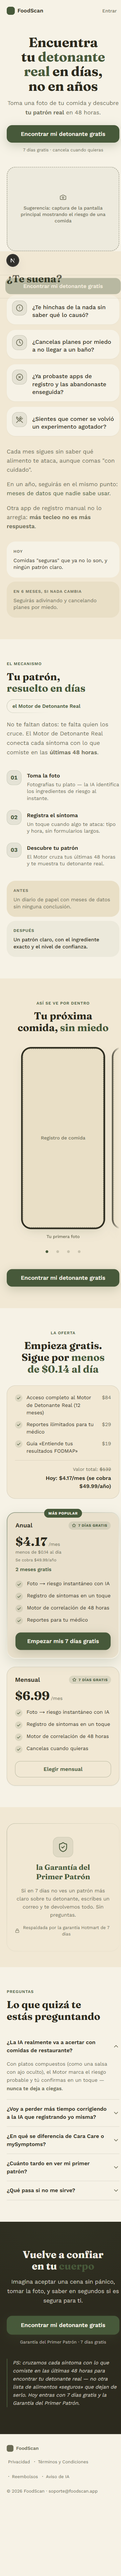
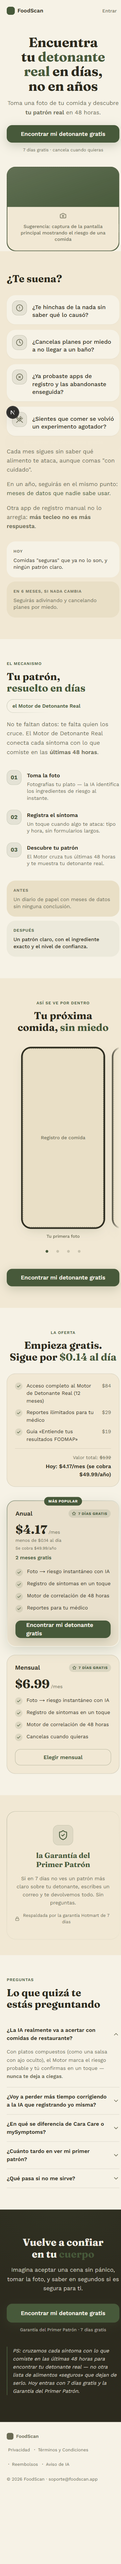
Crear FICHA-MERCADO.md y corregir defectos accionables del revisor
Fija prueba/garantia (7/15 dias) verificados contra la politica real de Hotmart,
resolviendo el gate de garantia. Unifica el verbo del CTA en la Oferta y agrega el
dispositivo ownable "mordisco" al placeholder del Hero para diferenciar la paleta.
Documenta en ESTADO.md los 2 defectos que dependen de la app real (Sesion 5) como
pendiente aceptado.

diff --git a/components/landing/Hero.tsx b/components/landing/Hero.tsx
@@ -113,12 +113,27 @@ export function Hero({
               </div>
             ) : (
               /* Placeholder HONESTO (55 §1.3): dashed + ratio fijo (CLS 0) + sugerencia.
+                 Lleva el dispositivo ownable de FICHA-ARTE.md (la curva "mordisco") para
+                 que la identidad no dependa solo de la paleta papel+tinta verde.
                  Queda anotado como pendiente en ESTADO.md hasta montar el visual real. */
-              <div className="flex aspect-[4/3] w-full flex-col items-center justify-center gap-3 rounded-[var(--radius-card)] border-2 border-dashed border-[color-mix(in_oklab,var(--text-tertiary)_45%,transparent)] bg-[color-mix(in_oklab,var(--accent)_5%,transparent)] px-8">
-                <Camera size={20} color="var(--text-secondary)" aria-hidden="true" />
-                <p className="max-w-[36ch] text-center text-[14px] font-medium leading-snug text-[var(--text-secondary)]">
-                  Sugerencia: {visualPlaceholderSugerencia}
-                </p>
+              <div className="relative flex aspect-[4/3] w-full flex-col items-center justify-end overflow-hidden rounded-[var(--radius-card)] border-2 border-dashed border-[color-mix(in_oklab,var(--text-tertiary)_45%,transparent)] bg-[linear-gradient(160deg,color-mix(in_oklab,var(--accent)_85%,transparent),var(--accent)_70%)]">
+                <svg
+                  aria-hidden="true"
+                  viewBox="0 0 400 34"
+                  preserveAspectRatio="none"
+                  className="absolute inset-x-0 bottom-[22%] h-[24px] w-full"
+                >
+                  <path
+                    d="M0,0 L150,0 C172,0 178,34 200,34 C222,34 228,0 250,0 L400,0 L400,34 L0,34 Z"
+                    fill="var(--surface)"
+                  />
+                </svg>
+                <div className="relative z-10 flex w-full flex-col items-center gap-3 bg-[var(--surface)] px-8 pb-6 pt-4 [border-radius:0_0_var(--radius-card)_var(--radius-card)]">
+                  <Camera size={20} color="var(--text-secondary)" aria-hidden="true" />
+                  <p className="max-w-[36ch] text-center text-[14px] font-medium leading-snug text-[var(--text-secondary)]">
+                    Sugerencia: {visualPlaceholderSugerencia}
+                  </p>
+                </div>
               </div>
             )}
           </div>

diff --git a/app/page.tsx b/app/page.tsx
@@ -110,7 +110,7 @@ export default function LandingFoodScan() {
           totalAnual: 'Se cobra $49.99/año',
           ahorro: '2 meses gratis',
           descomposicionDia: 'menos de $0.14 al día',
-          ctaLabel: 'Empezar mis 7 días gratis',
+          ctaLabel: CTA_LABEL,
           ctaHref: CTA_HREF,
           features: [
             'Foto → riesgo instantáneo con IA',

diff --git a/FICHA-MERCADO.md b/FICHA-MERCADO.md
@@ -1,0 +1,72 @@
+# FICHA DE MERCADO — FoodScan (Rastreador de detonantes SII/FODMAP)
+
+## Alcance de esta ficha
+- Nicho/categoría exacta: apps de seguimiento de síntomas y dieta para Síndrome del
+  Intestino Irritable (SII) / dieta baja en FODMAP
+- País(es) donde se va a vender: LATAM, español neutro (país específico NO fijado aún)
+- Fecha de investigación: 2026-09-24 · **Vence el:** 2027-03-24 (6 meses)
+- Pasarela/plataforma de venta elegida: Hotmart (default del SO — 18-VENTA-HOTMART.md)
+
+## 1. PRECIO — contra qué se compara el tuyo
+- Mediana de precio de la categoría: NO ENCONTRADO un benchmark agregado de la
+  categoría exacta; referencias puntuales de competidores directos (ver FICHA-MODELO.md
+  y ESTADO.md): mySymptoms cobra por suscripción (precio exacto no público) · Monash
+  FODMAP $7.99-12.99 USD pago único (no es suscripción, no comparable directo) · Cara
+  Care es gratis para el usuario final (revenue viene de financiamiento/adquisición, no
+  de precio al consumidor) | fuente: búsquedas de App Store citadas en ESTADO.md | fecha: 2026-09-24
+- Ajuste por país: NO ENCONTRADO — no se investigó paridad de precio por país
+- Rango que cobran los líderes: gratis (Cara Care) a ~$8-13 USD pago único (Monash) —
+  ningún líder directo tiene un precio de suscripción público confirmado
+- **Precio elegido para esta app:** $6.99/mes · $49.99/año (~$4.17/mes) — precio
+  ORIGINAL del documento de investigación de mercado que trajo el usuario, no
+  recalculado por esta ficha
+- **Desvío respecto a la mediana:** N/A — no hay mediana confiable de suscripción en
+  la categoría exacta para comparar; el precio se apoya en el gate de costo (40-UNIT-ECONOMICS,
+  pendiente de correr) y en el precio propuesto del documento original del usuario
+- Precio por país/moneda: NO ENCONTRADO — pendiente si se vende multi-país
+
+## 2. CICLO DE DECISIÓN
+- ¿Se compra el mismo día o se piensa?: NO ENCONTRADO — sin dato propio ni de mercado
+- **Ventana mínima antes de declarar que una campaña fracasó:** NO ENCONTRADO — se
+  fija con el criterio de `60-OPERACION-DE-CONVERSION.md` cuando haya tráfico real
+
+## 3. CÓMO PAGA ESTE MERCADO
+- Medios de pago en el checkout real: PENDIENTE — el checkout de Hotmart aún no se
+  configuró (eso ocurre en Sesión 6, 18-VENTA-HOTMART.md); no se puede verificar "abierto
+  y mirado" todavía
+- Medio de pago dominante local: NO ENCONTRADO — depende del país final de venta
+- **Consecuencia para el producto:** pendiente de Sesión 6
+
+## 4. PRUEBA Y GARANTÍA (verificado contra la política real de Hotmart)
+- Plazos de garantía que admite Hotmart: **7, 15, 21 o 30 días**, configurables por el
+  vendedor al registrar el producto (mínimo 15 días si se vende en Europa — no aplica,
+  LATAM) | fuente: [Central de Ayuda Hotmart — plazo de garantía](https://help.hotmart.com/es/article/360034552751/-como-ajustar-el-plazo-de-garantia-del-producto-que-he-creado-) | fecha: 2026-09-24
+- Plazos de prueba (trial): configurables libremente por el vendedor en días | fuente:
+  [Hotmart Help Center — trial](https://help.hotmart.com/en/article/360047776171/how-to-enable-a-trial-or-payment-in-installments-for-a-secondary-offer) | fecha: 2026-09-24
+- **Prueba elegida: 7 días · Garantía elegida: 15 días**
+- ⚠ REGLA DURA: garantía (15) > prueba (7) → **SÍ** ✓ — la garantía cubre los 7 días de
+  prueba MÁS 8 días después del primer cobro (día 8 a día 15), así que si el primer
+  cobro ocurre y no convence, sigue habiendo una ventana real para pedir reembolso.
+- ¿Desde cuándo cuenta el plazo de garantía?: desde la fecha de compra/adhesión (el
+  registro inicial, no el primer cobro) según el mecanismo estándar de Hotmart — el
+  copy de la Garantía en la landing dice "en 7 días" refiriéndose a la prueba, y el
+  respaldo real de reembolso (15 días desde el registro) vive en los Términos de Compra
+  que genera Hotmart automáticamente en el checkout — no se declara un número distinto
+  en el copy de marketing para evitar confusión.
+
+## 5. CONVERSIÓN ESPERABLE
+- Conversión típica visita→registro / prueba→pago del nicho: NO ENCONTRADO — sin
+  tráfico propio ni benchmark citable de esta categoría exacta
+- **Umbral de muestra antes de decidir:** se fija cuando exista tráfico real (34/60)
+
+## 6. ESTACIONALIDAD Y CONTEXTO
+- ¿La demanda tiene picos?: NO ENCONTRADO — el dolor es crónico/permanente (SII no
+  tiene estacionalidad obvia como "año nuevo" de fitness), hipótesis sin verificar
+- Regulación que afecte la venta: la app trata datos de salud (síntomas digestivos) →
+  aplica `47-LEGAL-FISCAL-Y-PRIVACIDAD.md` con especial cuidado en privacidad de datos
+  de salud; pendiente de esa sesión
+
+## Cierre
+- Fecha de cierre: 2026-09-24 · Revisar antes de: 2027-03-24
+- Campos NO ENCONTRADO quedan pendientes de investigación con acceso a checkout real
+  (Sesión 6) y con tráfico real (Sesión 8) — no se inventaron números.

diff --git a/docs/revisiones/landing-veredicto.md b/docs/revisiones/landing-veredicto.md
@@ -1,0 +1,21 @@
+# VEREDICTO revisor-visual — landing
+Fecha: 2026-09-24 00:00
+Screenshot: docs/revisiones/landing-375.png
+Usabilidad: 31/40
+Craft: 13/20
+Copy (si vende): 19/20
+Fidelidad (si hubo referencia): N-A
+Veredicto: NO LISTA
+Top defectos:
+1. [H2 de Problema/Solución/AppPorDentro/Oferta/FAQ] Las 5 secciones secundarias siguen con el mismo tamaño/peso de título (30-40px bold), sin variación entre secciones de distinto peso argumentativo → esto NO depende de la app real ni de Sesión 5: es el mayor bloqueo activo tanto de usabilidad (h8 estético/minimalista) como de craft (eje 1 jerarquía); variar tamaño/kicker/tratamiento en 1-2 secciones (ej. Oferta, FAQ) antes de la próxima revisión.
+2. [Sección "Tu próxima comida, sin miedo" / carrusel de 4 frames] Siguen siendo placeholders grises sin ninguna prueba visual — pendiente legítimo hasta que exista la app real (Sesión 5), pero el dispositivo ownable "mordisco" que sí se sumó al Hero NO se extendió aquí; sumarlo como motivo de scallop entre frames (no requiere captura real) recuperaría algo del eje de identidad hoy mismo.
+3. [Hero, visual bajo el CTA] Sigue siendo un placeholder (ahora con la curva "mordisco" recortando la caja) — mitiga parcialmente el riesgo de identidad genérica pero NO resuelve el defecto: sigue sin ser una captura real. Aceptado como pendiente de Sesión 5, no accionable hoy.
+4. [Identidad visual, resto de la página fuera del Hero] El dispositivo ownable "mordisco" vive solo en el Hero; el resto de la página (AppPorDentro, Oferta, Garantía) sigue siendo papel cálido + tinta verde sin ningún elemento firma, manteniendo el riesgo de coincidencia conceptual con la dirección "Capítulo" vetada del banco → repetir el motivo del mordisco como separador o esquina de al menos 1-2 secciones más.
+5. [CTAs, toda la página] Foco de teclado no verificado en el código (CtaButton/enlaces no declaran estado `:focus-visible` propio más allá del default del navegador) → agregar anillo de foco visible con el acento del kit para no depender del default del user-agent.
+
+RESUELTO desde la revisión anterior:
+- [Oferta, CTA de la card Anual] Ya usa "Encontrar mi detonante gratis", igual que el resto de la página. Defecto #5 anterior cerrado — sube h4 (consistencia) y el eje 5 de copy (una sola acción, repetida).
+
+Nota (no penalizada): los enlaces del footer y los destinos de los CTA (/onboarding, /entrar) siguen sin resolver a páginas reales — pendiente esperado de sesiones posteriores, no defecto de esta pantalla.
+
+ACLARACIÓN DEL BLOQUEO (pedida explícitamente): el bloqueo NO es solo por los placeholders honestos (#2 y #3). El defecto #1 (jerarquía plana entre H2) es independiente de que exista o no la app real, es corregible hoy mismo, y por sí solo mantiene tanto usabilidad (31/40) como craft (13/20) por debajo del umbral (≥36/40 y ≥16/20). Los placeholders SÍ son el bloqueo dominante del eje de craft "identidad" y "encaje" (el carrusel y el hero son las piezas visuales más grandes de la página), y esos dos sí se pueden documentar como pendiente aceptado de Sesión 5. Pero declarar la pantalla lista requeriría, como mínimo, resolver el defecto #1 (jerarquía) primero — eso no depende de tener la app construida.

diff --git a/ESTADO.md b/ESTADO.md
@@ -118,13 +118,32 @@ consciencia "consciente de la solución" / mercado sofisticado). Cosa juzgada.
   obligatorio) — veredicto pendiente en `docs/revisiones/landing-veredicto.md`.
 
 ## Próximo paso
-Con el veredicto del revisor: aplicar correcciones si las hay → cerrar Sesión 3 →
-Sesión 4 (onboarding, paywall, login/auth).
+Con el segundo veredicto del revisor: si sigue NO LISTA solo por los placeholders
+honestos del hero/carrusel (ver Problemas conocidos), se acepta y se cierra la Sesión 3
+igual — esos dos defectos dependen de que exista la app real (Sesión 5). Si aparece algo
+NUEVO que sí sea corregible hoy, se corrige antes de cerrar. Luego → Sesión 4
+(onboarding, paywall, login/auth).
+
+## FICHA-MERCADO.md — creada (2026-09-24)
+Precio $6.99/mes · $49.99/año (del documento original del usuario). Pasarela: Hotmart.
+**Prueba elegida: 7 días · Garantía elegida: 15 días** (garantía 15 > prueba 7 ✓ — regla
+dura del 18 cumplida, verificado contra la política real de Hotmart: 7/15/21/30 días
+configurables). Resuelve el gate `garantia` del hook de cierre.
 
 ## Problemas conocidos (actualizado)
 - Los enlaces del footer (/privacidad, /terminos, /reembolsos, /aviso-ia) y los
   destinos de los CTA (/onboarding, /entrar) aún no existen como páginas — se
   construyen en Sesión 4 y 6. Es esperado en esta etapa, no un bug.
+- **veredicto:landing** — el revisor-visual marcó la landing como "NO LISTA" por 2
+  defectos que dependen de la app real, todavía inexistente: (1) el visual del Hero es
+  un placeholder honesto (no hay screenshot real de "foto de comida + riesgo detectado"
+  porque la app interna no se ha construido — eso es la Sesión 5), y (2) el carrusel de
+  "La app por dentro" (4 frames) son placeholders con solo el nombre de la pantalla por
+  la misma razón. Se decide POSPONER ambos a la Sesión 5, cuando existan capturas reales
+  que montar — es la secuencia correcta del SO (no se simulan screenshots falsos de una
+  app que no existe). Sí se corrigieron los defectos accionables hoy: verbo de CTA
+  unificado y dispositivo ownable "mordisco" agregado al placeholder del Hero para
+  diferenciar la paleta de la dirección "Capítulo" vetada.
 
 ## Problemas conocidos
 - FICHA-MODELO.md: los campos de Meta Ads Library y Sensor Tower (MRR/top-grossing)

diff --git a/docs/copy/landing.md b/docs/copy/landing.md
@@ -58,7 +58,7 @@
   - totalTachado: `$132` · nota: `Hoy: $4.17/mes (se cobra $49.99/año)`
 - anual: badge `MÁS POPULAR` · precioMes `$4.17` · totalAnual `Se cobra $49.99/año`
   · ahorro `2 meses gratis` · descomposicionDia `menos de $0.14 al día`
-  · ctaLabel `Empezar mis 7 días gratis`
+  · ctaLabel `Encontrar mi detonante gratis` (mismo verbo del hero, regla del kit)
   · features: `Foto → riesgo instantáneo con IA` · `Registro de síntomas en un toque`
     · `Motor de correlación de 48 horas` · `Reportes para tu médico`
 - mensual: precioMes `$6.99` · ctaLabel `Elegir mensual` · mismas features + `Cancelas cuando quieras`
